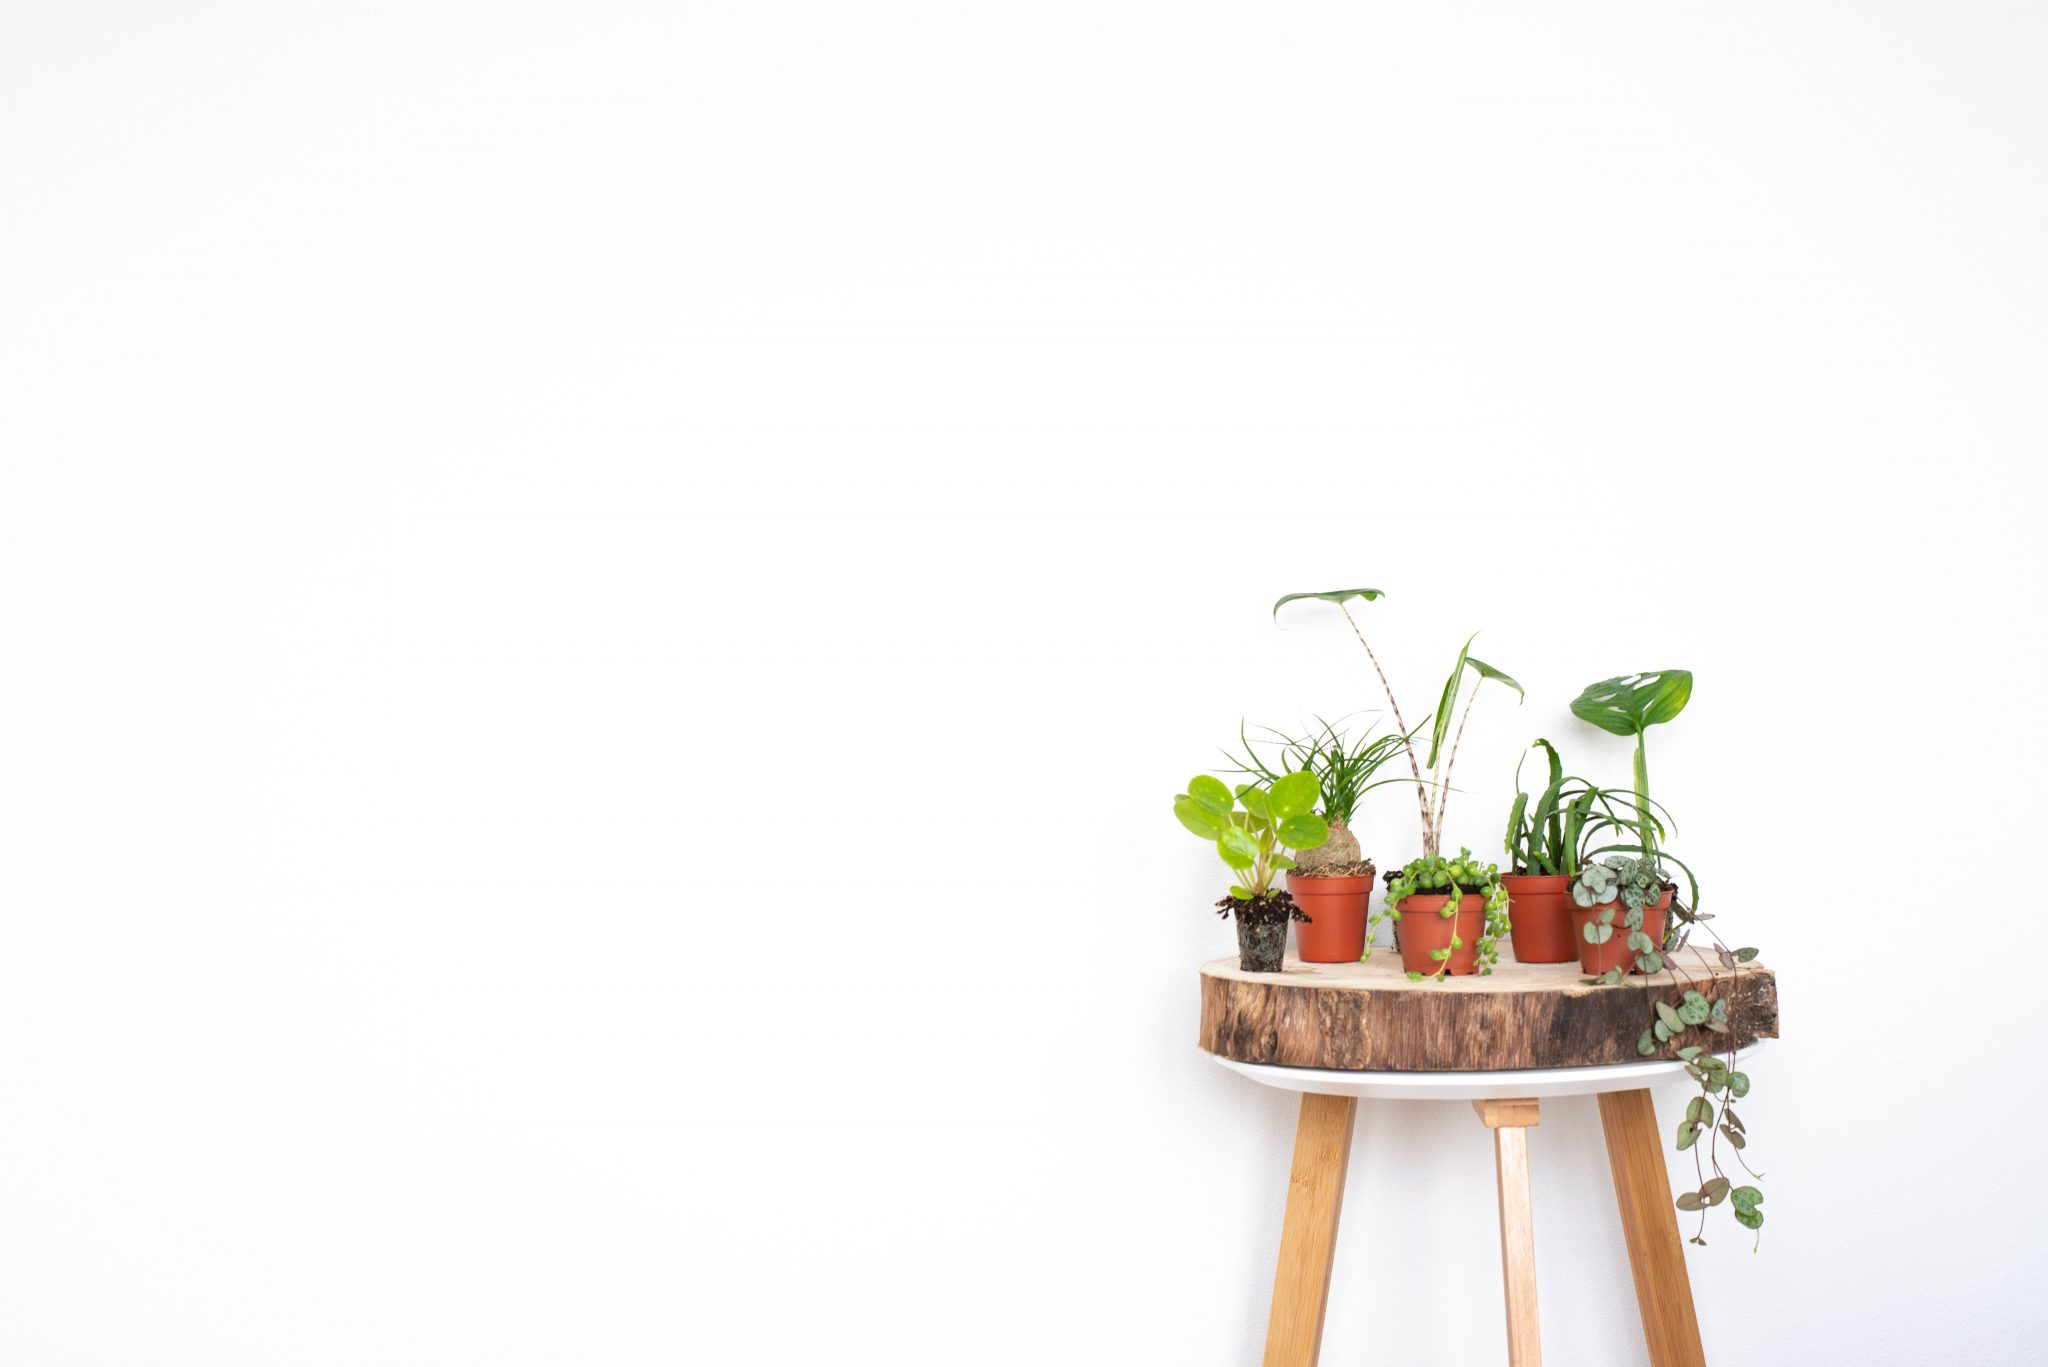
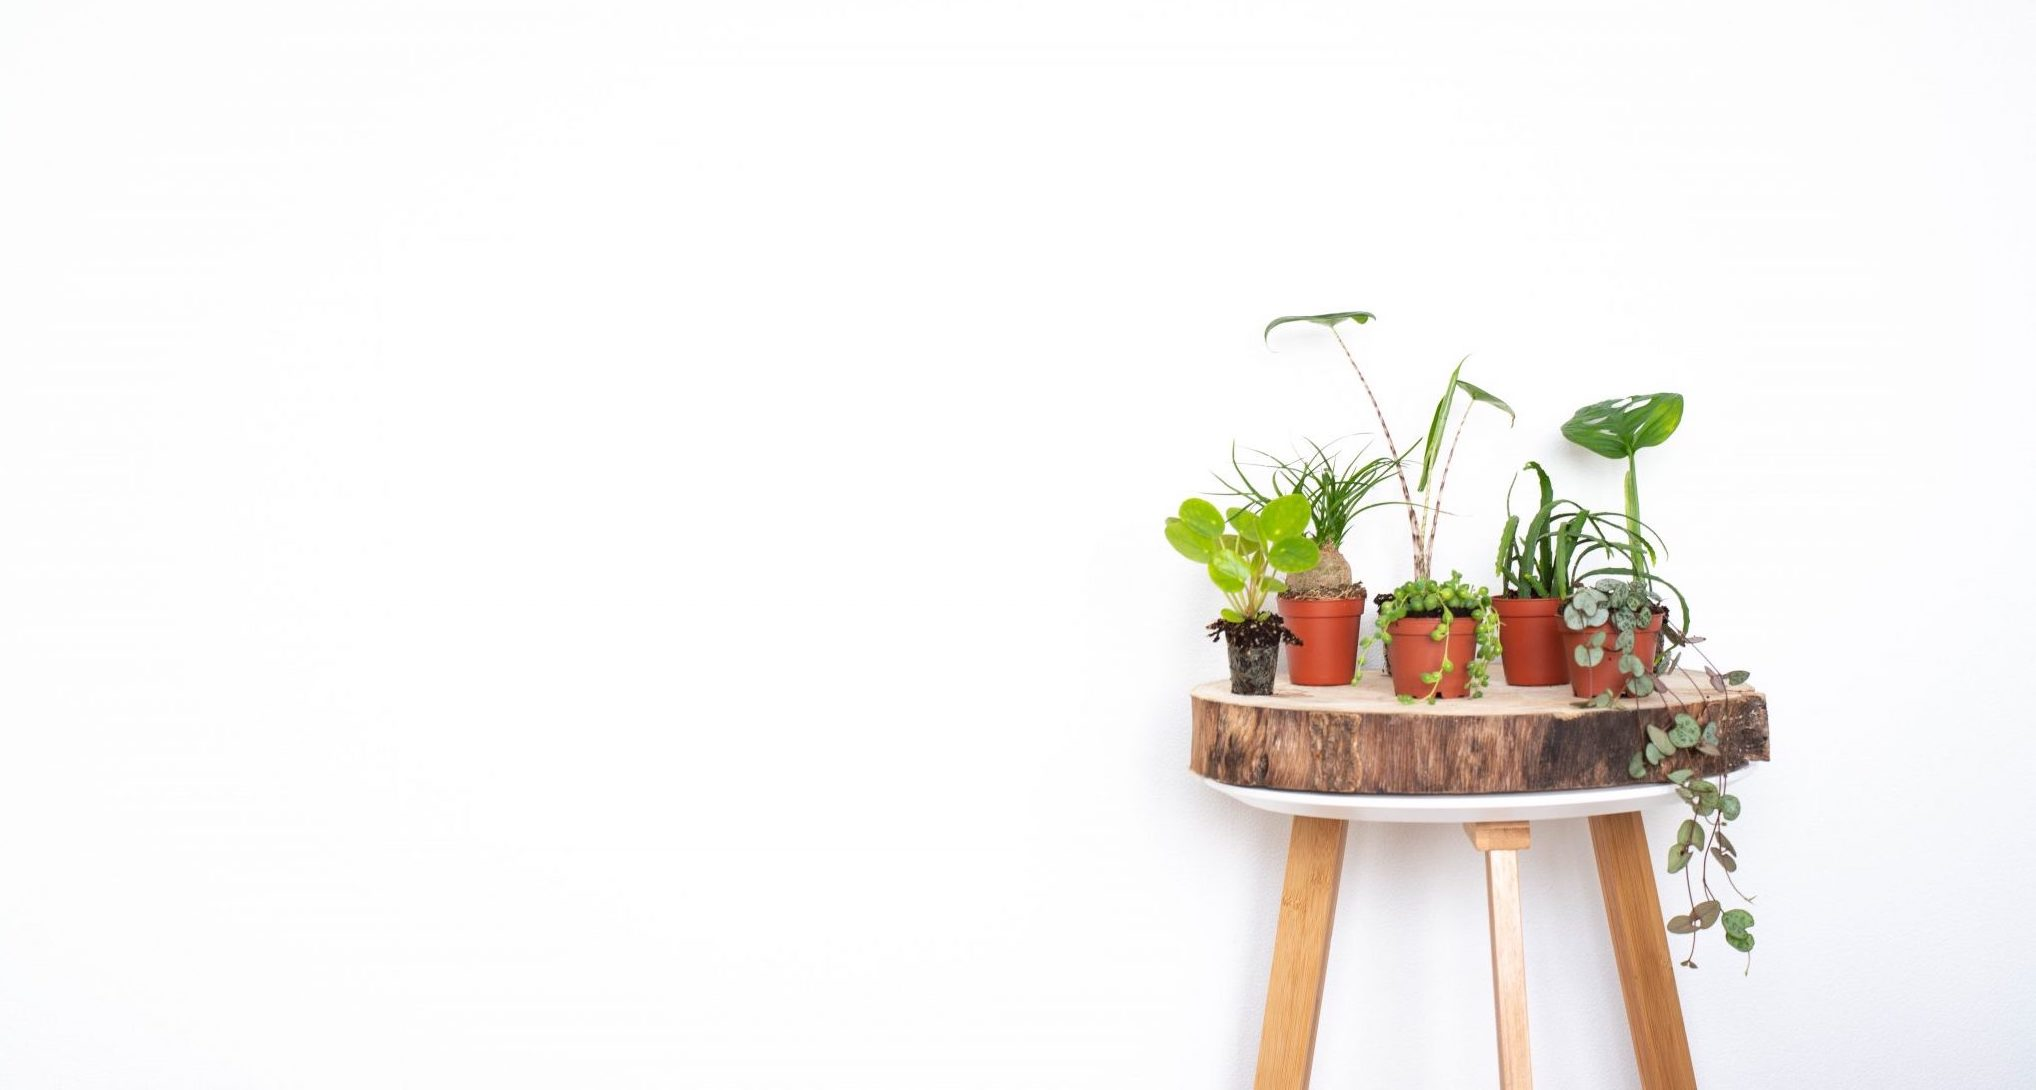
New background tried + fixed things on navbar

Changed region(s): [[0.557, 0.3431, 0.8664, 0.967], [0.6189, 0.2807, 0.6807, 0.3119], [0.7117, 0.3431, 0.7426, 0.3743]]

diff --git a/app/assets/stylesheets/components/_banner.scss b/app/assets/stylesheets/components/_banner.scss
@@ -1,11 +1,10 @@
 
 .banner-home{
-  height: calc(70vh);
+  height: calc(60vh);
   background-repeat: no-repeat;
-  background-attachment: fixed;
   background-image: linear-gradient(to bottom, rgba(255,255,255,0.0) 90%, rgba(255,255,255,1)), url("home2.jpg");
   background-size: cover;
-  background-position: bottom;
+  background-position: center;
   // background-attachment: fixe
   display: flex;
   align-items: center;
@@ -18,6 +17,7 @@
     position: absolute;
     left:30px;
     width: 50%; 
+    top: 150px;
     p {
       text-decoration: none;
       font-size: 35px;

diff --git a/app/assets/stylesheets/components/_navbar.scss b/app/assets/stylesheets/components/_navbar.scss
@@ -1,7 +1,6 @@
 /* Main navbar */
 .navbar-bg {
   background-color: transparent;
-  border-bottom: solid 1px $dark-green;
 }
 
 .navbar-bg-scrolled {
